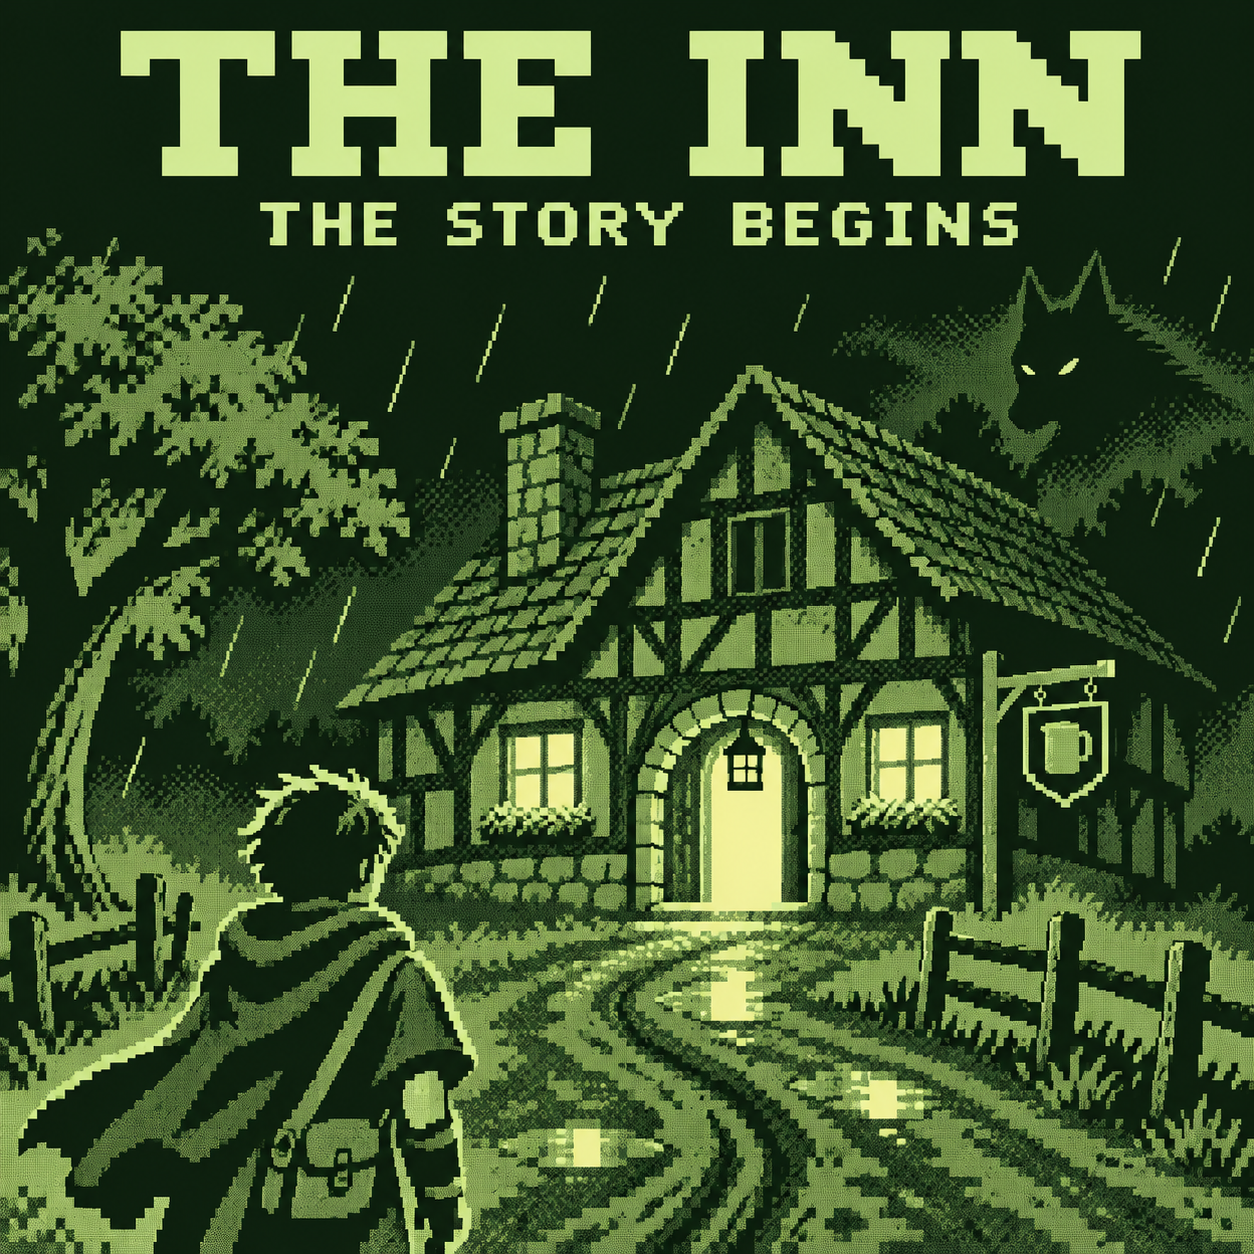
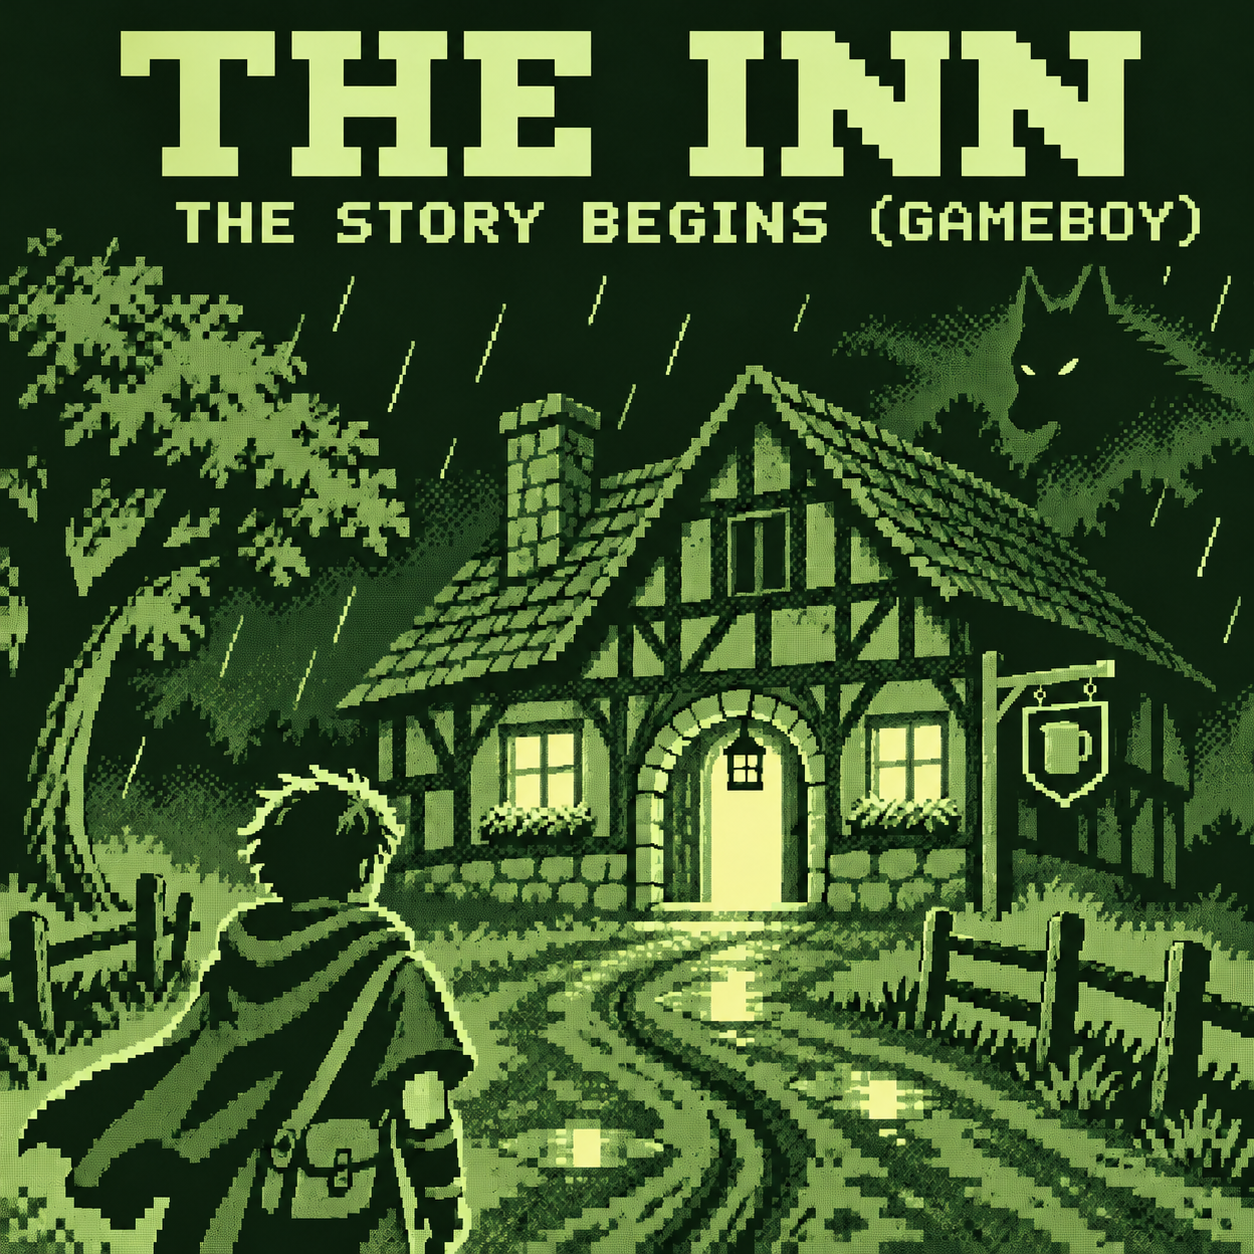
Update The Inn cover and game link preview

diff --git a/game/index.html b/game/index.html
@@ -1,6 +1,12 @@
 <!doctype html>
 <html lang="en"><meta charset="utf-8"><meta name="viewport" content="width=device-width,initial-scale=1">
 <title>The Inn</title>
+<meta property="og:title" content="The Inn - The Story Begins (Gameboy)">
+<meta property="og:image" content="https://jdwoody772.github.io/the-inn-game/The-Inn-Cover.png?v=47d1c060">
+<meta property="og:image:alt" content="Pixel art of a traveler approaching a lantern-lit inn in the rain">
+<meta name="twitter:card" content="summary">
+<meta name="twitter:image" content="https://jdwoody772.github.io/the-inn-game/The-Inn-Cover.png?v=47d1c060">
+<meta name="twitter:image:alt" content="Pixel art of a traveler approaching a lantern-lit inn in the rain">
 <style>
 *{box-sizing:border-box}body{margin:0;min-height:100svh;display:grid;place-items:center;background:#202523}.game-screen>canvas{display:block;width:min(640px,92vw);height:auto;image-rendering:pixelated;border:8px solid #101712;border-radius:8px}
 body{align-items:start}
